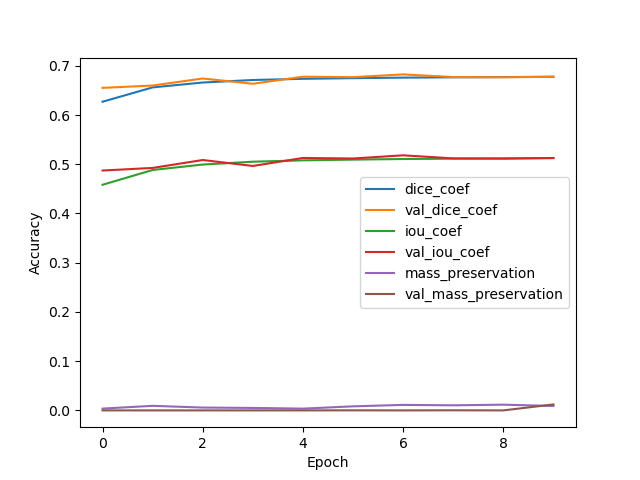
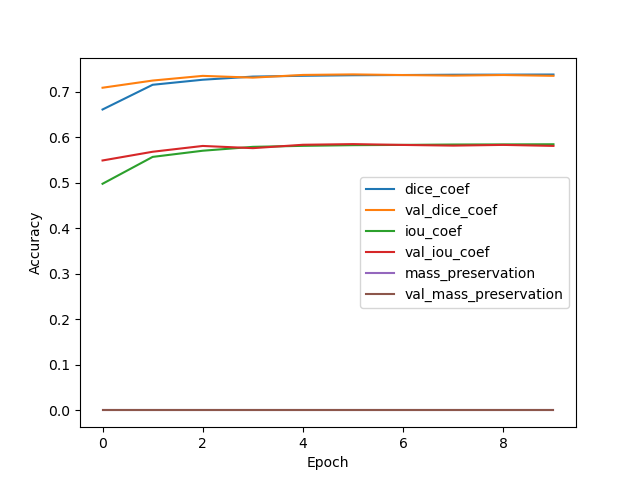
Updated generate sources and about to work on new idea for loading npy arrays

diff --git a/CNN.py b/CNN.py
@@ -16,7 +16,13 @@ def iou_coef(y_true, y_pred, smooth=1):
 
 
 def bce_dice(y_true, y_pred):
-    return losses.binary_crossentropy(y_true, y_pred) - K.log(dice_coef(y_true, y_pred))
+    bce = losses.binary_crossentropy(y_true, y_pred)
+    di = K.log(dice_coef(y_true, y_pred))
+    com = com_coef(y_true, y_pred)
+    print(tf.shape(bce))
+    print(tf.shape(di))
+    print(tf.shape(com))
+    return bce - di + com
 
 
 def dice_coef(y_true, y_pred, smooth=1):
@@ -27,11 +33,17 @@ def dice_coef(y_true, y_pred, smooth=1):
 
 
 def com_coef(y_true, y_pred):
-    actual = calculate_com(y_true.eval(session=tf.compat.v1.Session()))
-    predict = calculate_com(y_pred.eval(session=tf.compat.v1.Session()))
-    difference = predict - actual
-    radius_sq = difference[0] ** 2 + difference[1] ** 2
-    return np.exp(radius_sq)
+    i_1, j_1 = tf.meshgrid(tf.range(64),tf.range(64), indexing='ij')
+    coords_1 = tf.stack([tf.reshape(i_1, (-1,)), tf.reshape(j_1, (-1,))], axis=-1)
+    coords_1 = tf.cast(coords_1, tf.float32)
+    volumes_flat_1 = tf.reshape(y_true, [-1, 64 * 64, 1])
+    total_mass_1 = tf.reduce_sum(volumes_flat_1, axis=1)
+    centre_of_mass_1 = tf.reduce_sum(volumes_flat_1 * coords_1, axis=1) / total_mass_1
+    volumes_flat_2 = tf.reshape(y_pred, [-1, 64 * 64, 1])
+    total_mass_2 = tf.reduce_sum(volumes_flat_2, axis=1)
+    centre_of_mass_2 = tf.reduce_sum(volumes_flat_2 * coords_1, axis=1) / total_mass_2
+    difference = centre_of_mass_1 - centre_of_mass_2
+    return K.abs(difference)
 
 
 def mass_preservation(y_true, y_pred, smooth=1):
@@ -126,7 +138,7 @@ def create_neural_net(activation, optimizer, loss, frames=4, size=128, channels=
     model.add(layers.Conv2DTranspose(channels, (1, 1), activation='sigmoid'))
 
     print(model.summary())
-    model.compile(optimizer=optimizer, loss=loss, metrics=[iou_coef, dice_coef, mass_preservation])
+    model.compile(optimizer=optimizer, loss=loss, metrics=[iou_coef, dice_coef, mass_preservation, com_coef])
     # model.compile(optimizer=optimizer, loss=loss, metrics=[mass_preservation])
     return model
 
@@ -205,7 +217,9 @@ def main():
     files = glob.glob("Simulation_images/*")
     active = 'LeakyReLU'
     optimizer = 'adam'
-    loss = losses.BinaryCrossentropy()
+    # loss = losses.BinaryCrossentropy()
+    loss = bce_dice
+    # loss = com_coef
     # loss = losses.CategoricalCrossentropy()
     # loss = losses.KLDivergence()
     # loss = losses.CosineSimilarity()#Works goodish
@@ -222,10 +236,10 @@ def main():
     choice = input(">>")
     if choice == "Y":
         print("Getting source files...")
-        training_data = get_source_arrays(files[:], timestep_size)
+        # training_data = get_source_arrays(files[:], timestep_size)
         # np.save("Qs", training_data[0])
         # np.save("As", training_data[1])
-        # training_data = [np.load("Qs.npy"), np.load("As.npy")]
+        training_data = [np.load("Questions.npy"), np.load("Answers.npy")]
         print("Creating CNN...")
         model = create_neural_net(active, optimizer, loss, size=64)
 

diff --git a/Generate_sources.py b/Generate_sources.py
@@ -12,6 +12,10 @@ def get_question(sim, file, frames, loc, step_number):
     return start_array
 
 
+def get_source_arrays_2():
+    return None
+
+
 def get_source_arrays(sims, timestep_size=5, frames=4):
     """Get the arrays from simulated data.
     Input:
@@ -35,7 +39,7 @@ def get_source_arrays(sims, timestep_size=5, frames=4):
         for file in files:
             loc = file.find("/img_") + 5
             step_number = int(file[loc:-4])
-            t_1 = time.time()*1000
+            t_1 = time.time() * 1000
             if step_number + timestep_size < number_of_steps and step_number - frames > 0:
                 if not run_before:
                     start_array = get_question(sim, file, frames, loc, step_number)
@@ -54,12 +58,12 @@ def get_source_arrays(sims, timestep_size=5, frames=4):
                 # print(np.shape(current_questions))
                 # np.save("Questions", current_questions)
                 # np.save("Answers", current_answers)
-            t_2 = time.time()*1000
+            t_2 = time.time() * 1000
             time_data.append(t_2 - t_1)
-        print("Mean time of {:.3f} mins".format(np.mean(time_data)/(60*1000)))
-        print("Initial time of {:.3f} mins".format(time_data[0]/(60*1000)))
-        print("Final time of {:.3f} mins".format(time_data[-1:][0]/(60*1000)))
-        print("Total time of {:.2f} mins".format(np.sum(time_data)/(60*1000)))
+        print("Mean time of {:.3f} mins".format(np.mean(time_data) / (60 * 1000)))
+        print("Initial time of {:.3f} mins".format(time_data[0] / (60 * 1000)))
+        print("Final time of {:.3f} mins".format(time_data[-1:][0] / (60 * 1000)))
+        print("Total time of {:.2f} mins".format(np.sum(time_data) / (60 * 1000)))
         print(np.shape(current_questions))
         print(np.shape(current_answers))
         np.save("Questions", current_questions)
